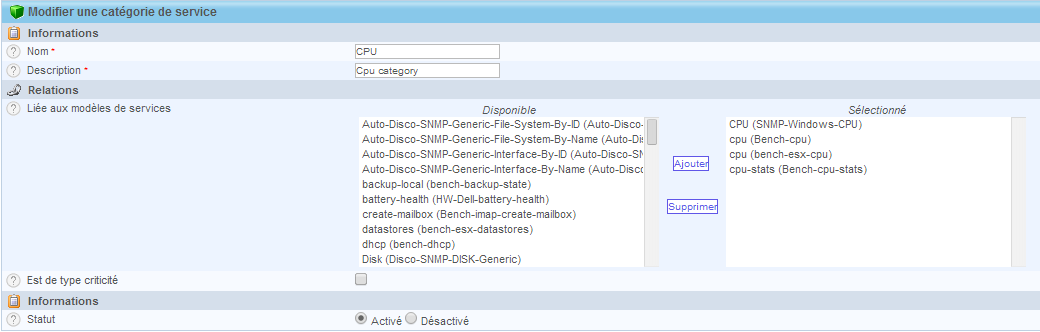
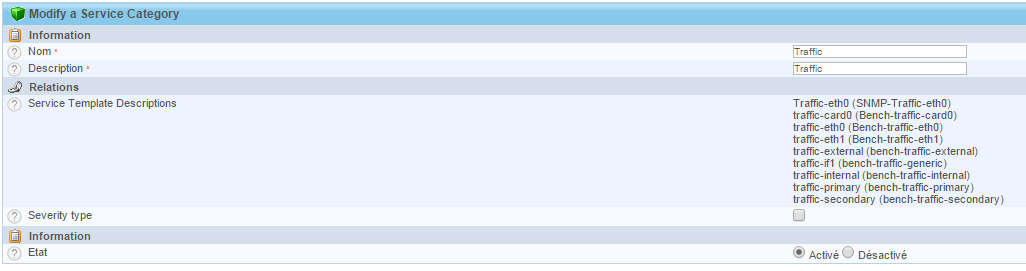
fix part 08 with screenshot EN

Changed region(s): [[0.0, 0.3247, 1.0, 1.0], [0.0, 0.0, 1.0, 0.4133], [0.6238, 0.5904, 0.7173, 0.6494]]

diff --git a/doc/en/user/configuration/08category.rst b/doc/en/user/configuration/08category.rst
@@ -36,6 +36,9 @@ To add a category of services:
 1.      Go into the menu: Configuration ==> Services
 2.      In the left menu, click on Categories
 3.      Click on Add
+
+.. image :: /images/user/configuration/08servicecategory.png
+      :align: center
  
 *       The Name and Description fields define the name and the description of the category of service.
 *       If a Model of service belongs to Linked to models of services all the services belonging to this Model of service are in this category.
